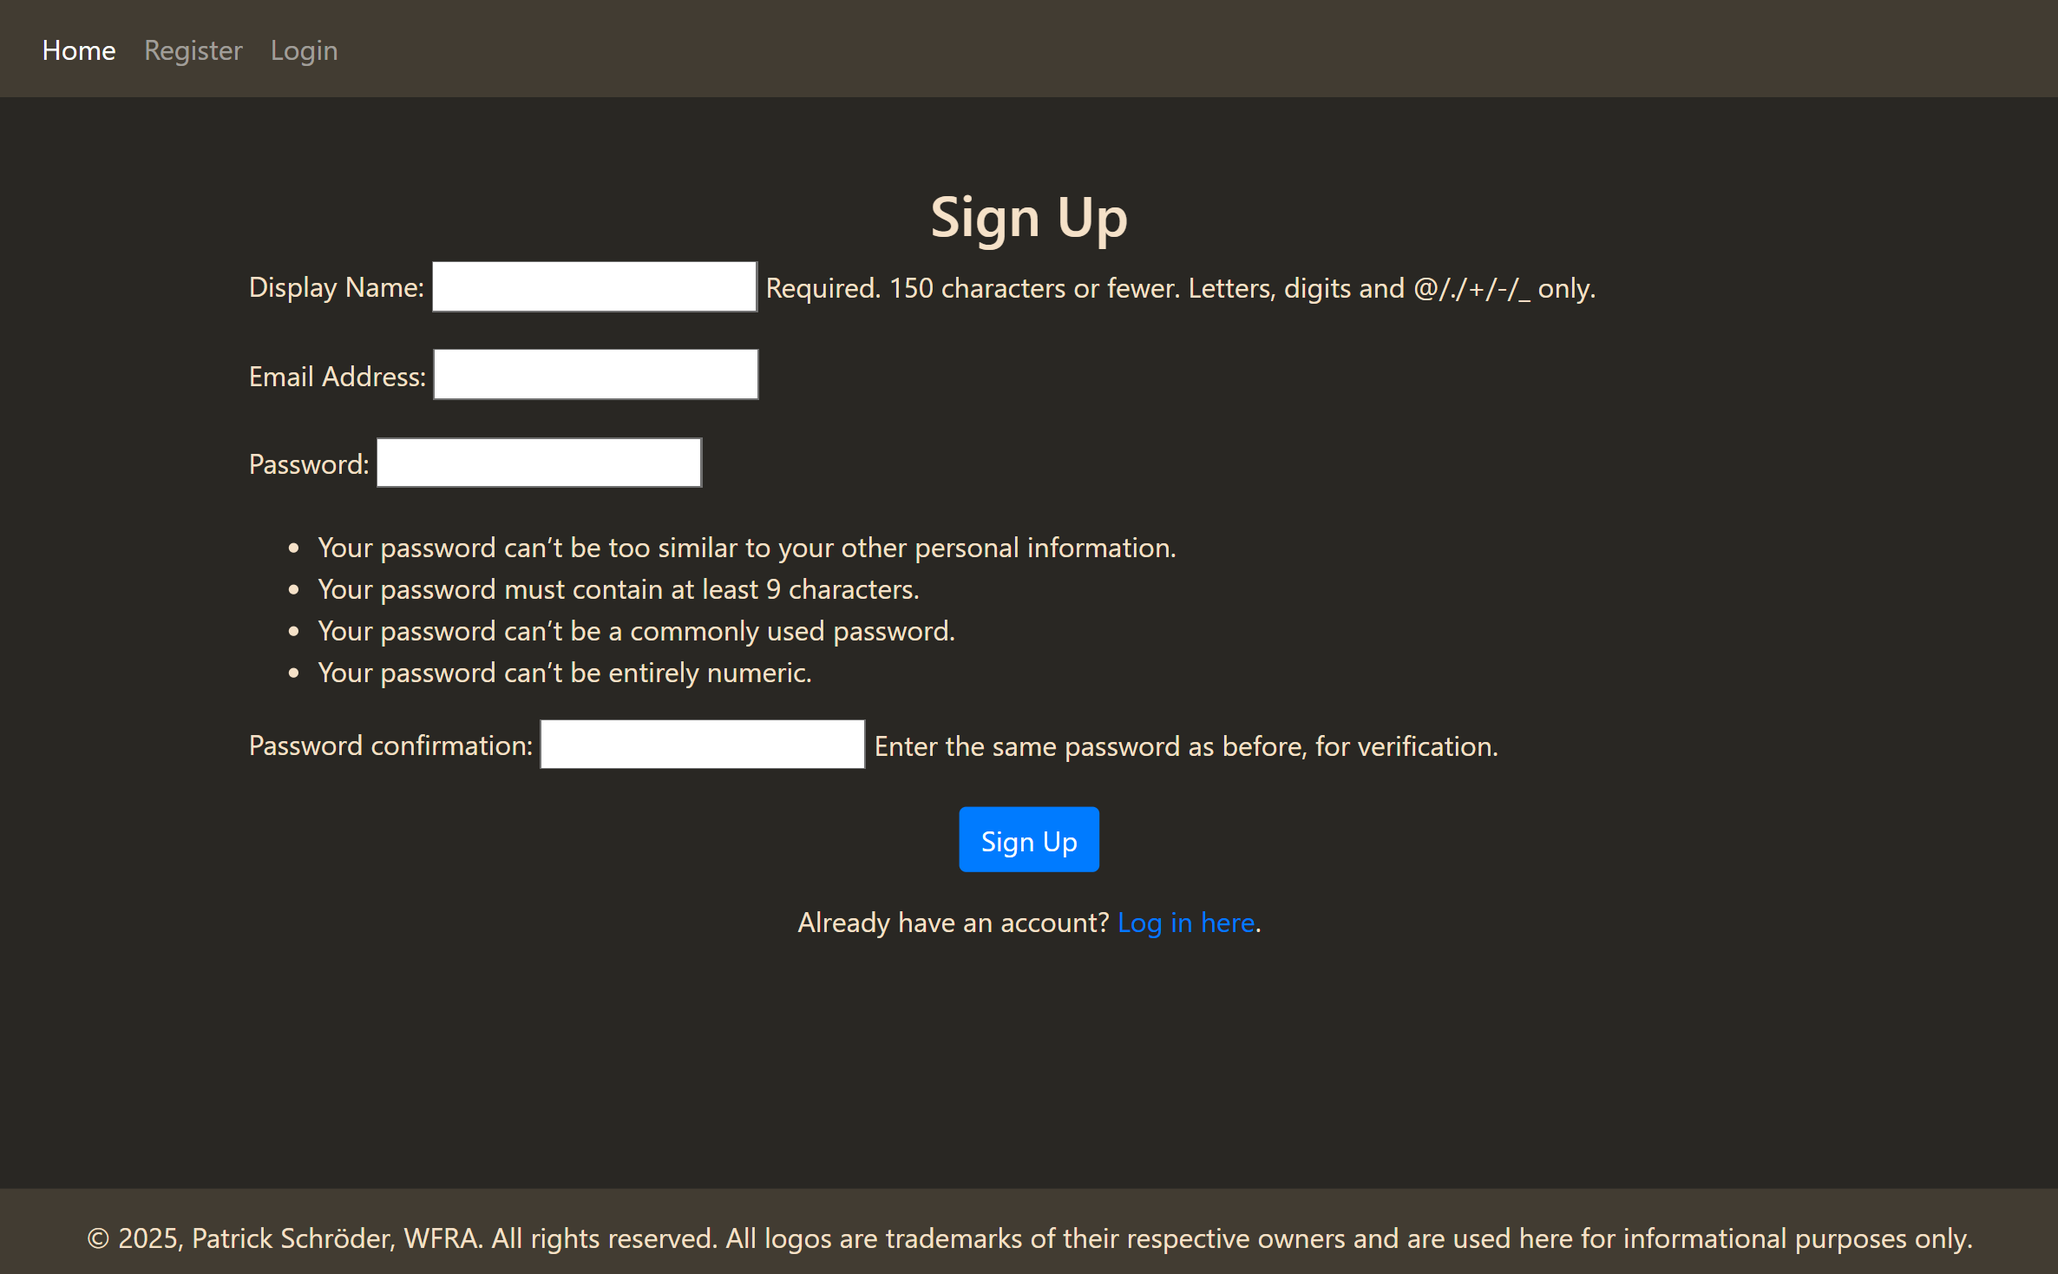
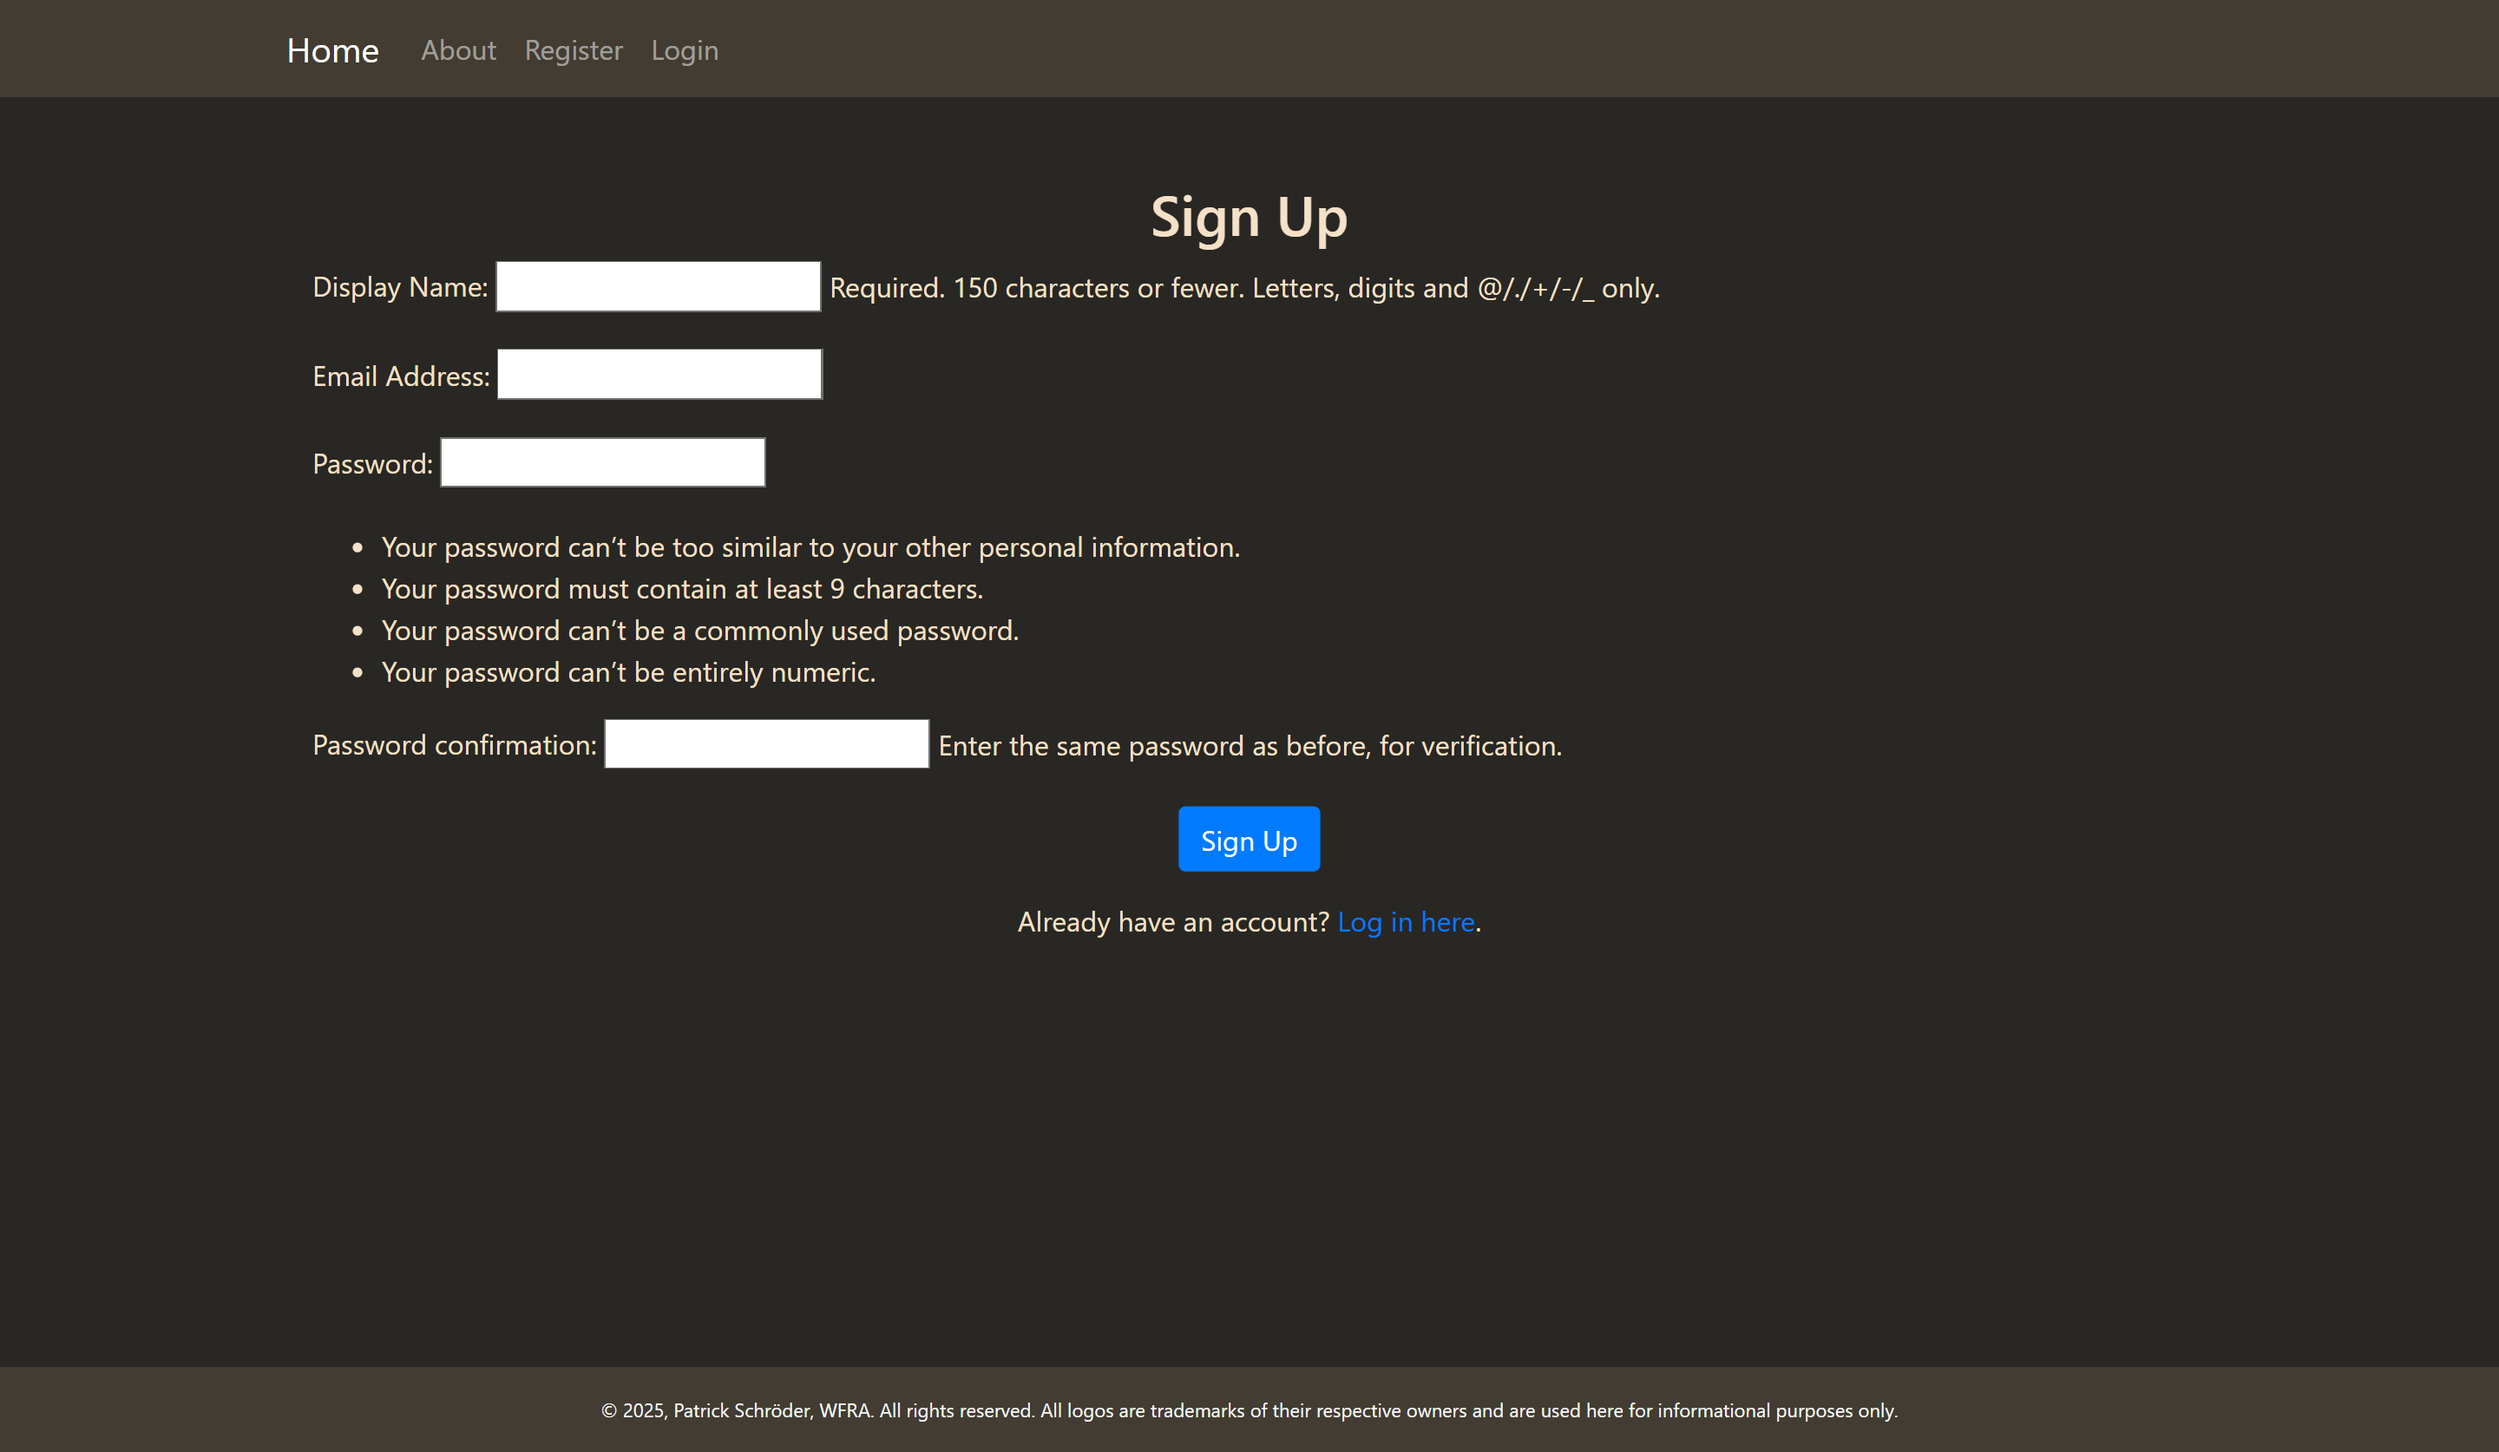
Update 1.3.17 - updated WFRA interface screenshots
Updated all screenshots in WFRA interface documentation to reflect recent changes.

Changed region(s): [[0.1248, 0.1226, 0.7799, 0.7357], [0.0, 0.9196, 1.0, 0.9809], [0.0, 0.0307, 1.0, 0.092]]

diff --git a/static/js/main.js b/static/js/main.js
@@ -1,5 +1,5 @@
 document.addEventListener("DOMContentLoaded", function () {
-    const footerText = "&copy; 2024, Patrick Schröder, Software Documentation v1.3.16. All rights reserved. All logos are trademarks of their respective owners and are used here for informational purposes only.";
+    const footerText = "&copy; 2024, Patrick Schröder, Software Documentation v1.3.17. All rights reserved. All logos are trademarks of their respective owners and are used here for informational purposes only.";
     const footerElement = document.querySelector("footer p[data-i18n='copyright']");
     if (footerElement) {
         footerElement.innerHTML = footerText;

diff --git a/README.md b/README.md
@@ -34,6 +34,7 @@ The full documentation of project can be found on my [Software Documentation Web
 
 
 ## Changelog:  
+1.3.17 - updated WFRA interface screenshots  
 1.3.16 - updated Portfolio and FAW interface documentation  
 1.3.15 - second update to WFRA interface documentation  
 1.3.14 - updated WFRA interface documentation  
